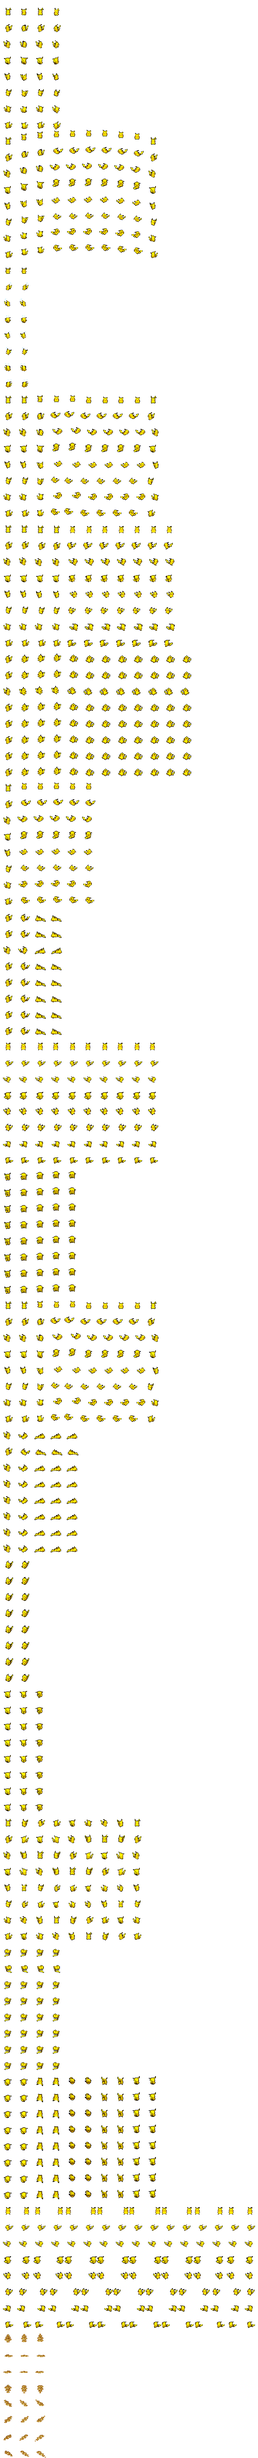
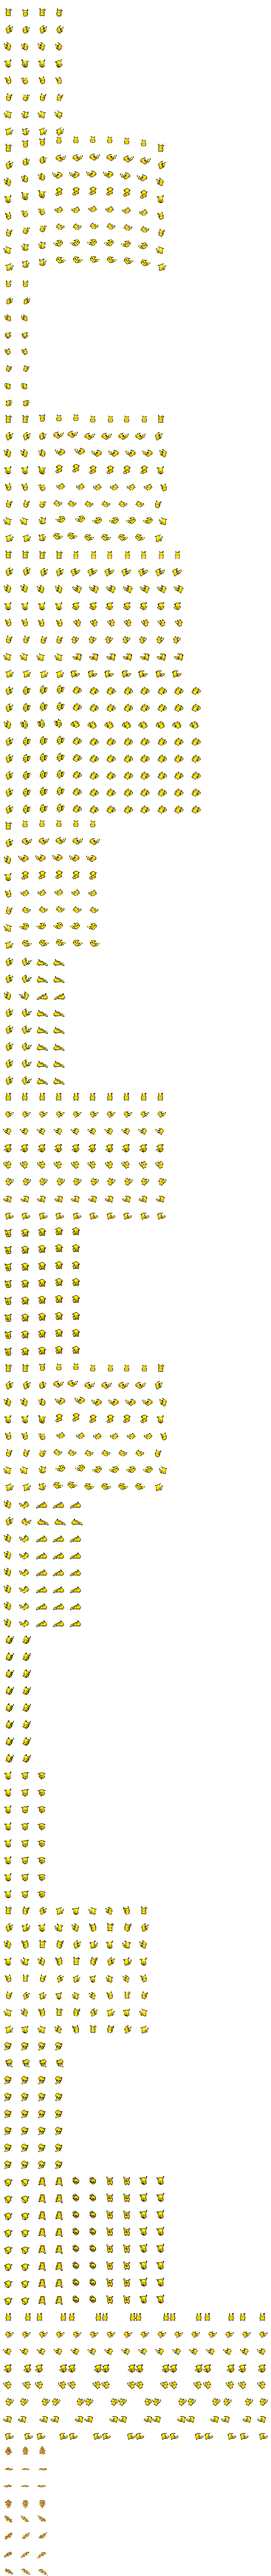
sprite updates

diff --git a/assets/followers/bake_pmd.py b/assets/followers/bake_pmd.py
@@ -65,8 +65,8 @@ FIT_MAX_BY_DEX: dict[int, int] = {
     9: 31,    # Blastoise - make a bit bigger
     19: 20,   # ratata 
     20: 23,   # raticate - a bit smaller
-    25: 20,   # pikachu - make smaller, like Growlite
-    26: 25,   # raichu - make the size of Ninetales
+    25: 21,   # pikachu - make smaller, like Growlite
+    26: 23,   # raichu - make the size of Ninetales
     37: 20,   # Vulpix
     31: 27,  # nidoqueen 
     34: 27,  # nidoking
